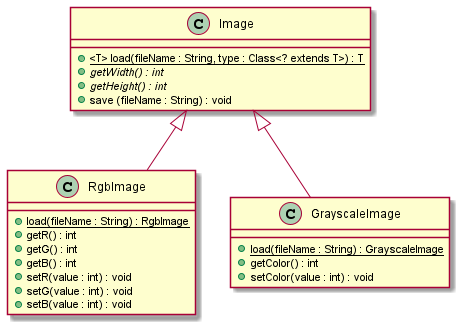
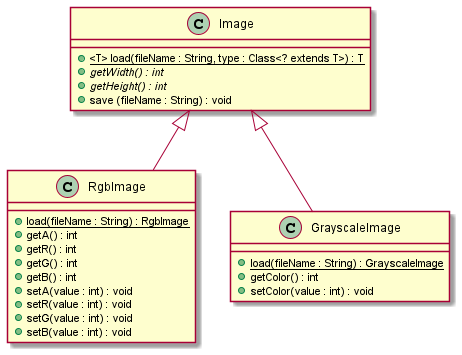
Added alpha support to RgbImage. Updated documentation.

Changed region(s): [[0.0, 0.0, 0.8182, 0.9786], [0.4848, 0.5199, 1.0, 0.9174], [0.6061, 0.4587, 0.6364, 0.5199]]

diff --git a/src/eng/simpleImage/RgbImage.java b/src/eng/simpleImage/RgbImage.java
@@ -50,6 +50,19 @@ public class RgbImage extends Image {
     this.width = width;
   }
 
+  public int getA(int x, int y) {
+    int index = this.getIndex(x, y);
+    return this.a[index];
+  }
+
+  public int getA(int x, int y, boolean lenient) {
+    if (lenient) {
+      x = ensureValueInWidth(x);
+      y = ensureValueInHeight(y);
+    }
+    return getA(x, y);
+  }
+
   public int getB(int x, int y) {
     int index = this.getIndex(x, y);
     return this.b[index];
@@ -101,6 +114,12 @@ public class RgbImage extends Image {
     val = ensureValueInColorRange(val);
     int index = getIndex(x, y);
     this.b[index] = val;
+  }
+
+  public void setA(int x, int y, int val) {
+    val = ensureValueInColorRange(val);
+    int index = getIndex(x, y);
+    this.a[index] = val;
   }
 
   public void setG(int x, int y, int val) {

diff --git a/readme.md b/readme.md
@@ -50,19 +50,6 @@ RgbImage img = Image.load("C:\temp.jpg", RgbImage.class);
 | `int getWidth()` | Returns width as int | 
 | `int getHeight()` | Returns height as int | 
 
-### RgbImage functions
-RGB image is representing the images a red-green-blue channel. Every channel have value in range 0-255.
-
-| Function | Explanation | 
-| --- | --- | 
-| `int getR(x, y)` | Returns RED color (RGB only) | 
-| `int getG(x, y)` | Returns GREEN color (RGB only) | 
-| `int getG(x, y)` | Returns GREEN color (RGB only) | 
-| -
-| `void setR(x, y)` | Sets RED color (RGB only) | 
-| `void setG(x, y)` | Sets GREEN color (RGB only) | 
-| `void setG(x, y)` | Sets GREEN color (RGB only) | 
-
 ### Grayscale image functions
 Grayscale image has at every pixel only gray scale value (range 0-255, 0 = black, 255 = white).
 
@@ -71,6 +58,23 @@ Grayscale image has at every pixel only gray scale value (range 0-255, 0 = black
 | int getColor(x, y) | Returns color | 
 | -
 | void setColor(x, y) | Sets color | 
+
+### RgbImage functions
+RGB image is representing the images a red-green-blue channel. Every channel have value in range 0-255 (0 = minimal color intensity, 1 = maximal color intensity).
+
+| Function | Explanation | 
+| --- | --- | 
+| `int getA(x, y)` | Returns alpha - transparency | 
+| `int getR(x, y)` | Returns RED color | 
+| `int getG(x, y)` | Returns GREEN color | 
+| `int getB(x, y)` | Returns BLUE color | 
+| -
+| `void setA(x, y)` | Sets alpha- transparency | 
+| `void setR(x, y)` | Sets RED color | 
+| `void setG(x, y)` | Sets GREEN color | 
+| `void setB(x, y)` | Sets BLUE color | 
+
+
 
 ### Some examples
 
